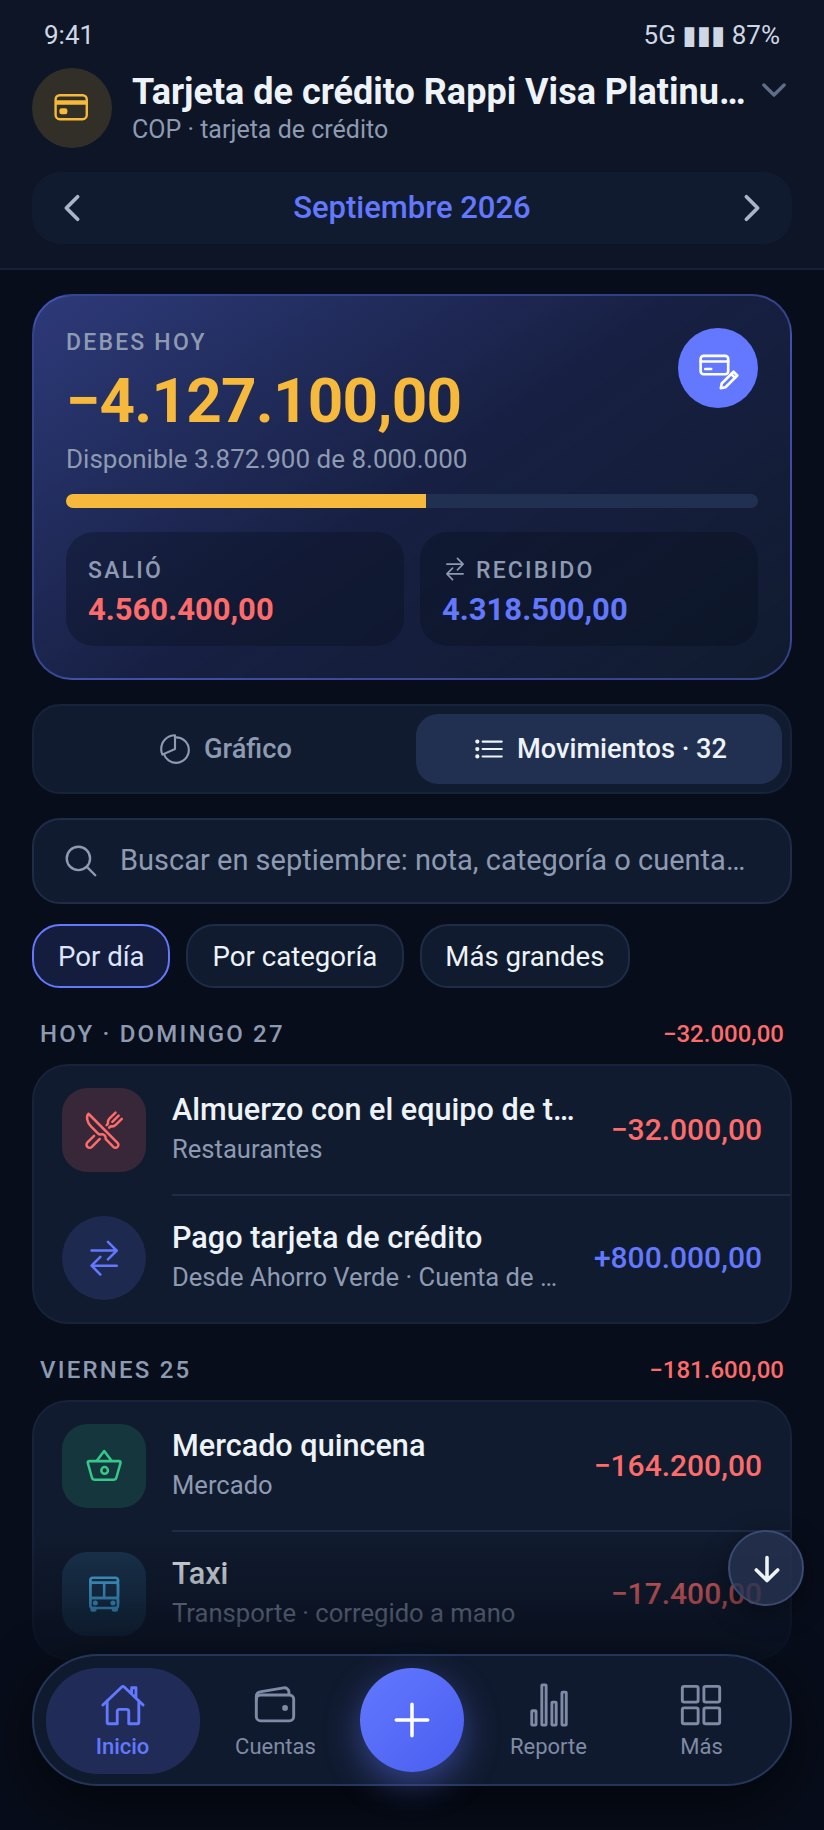
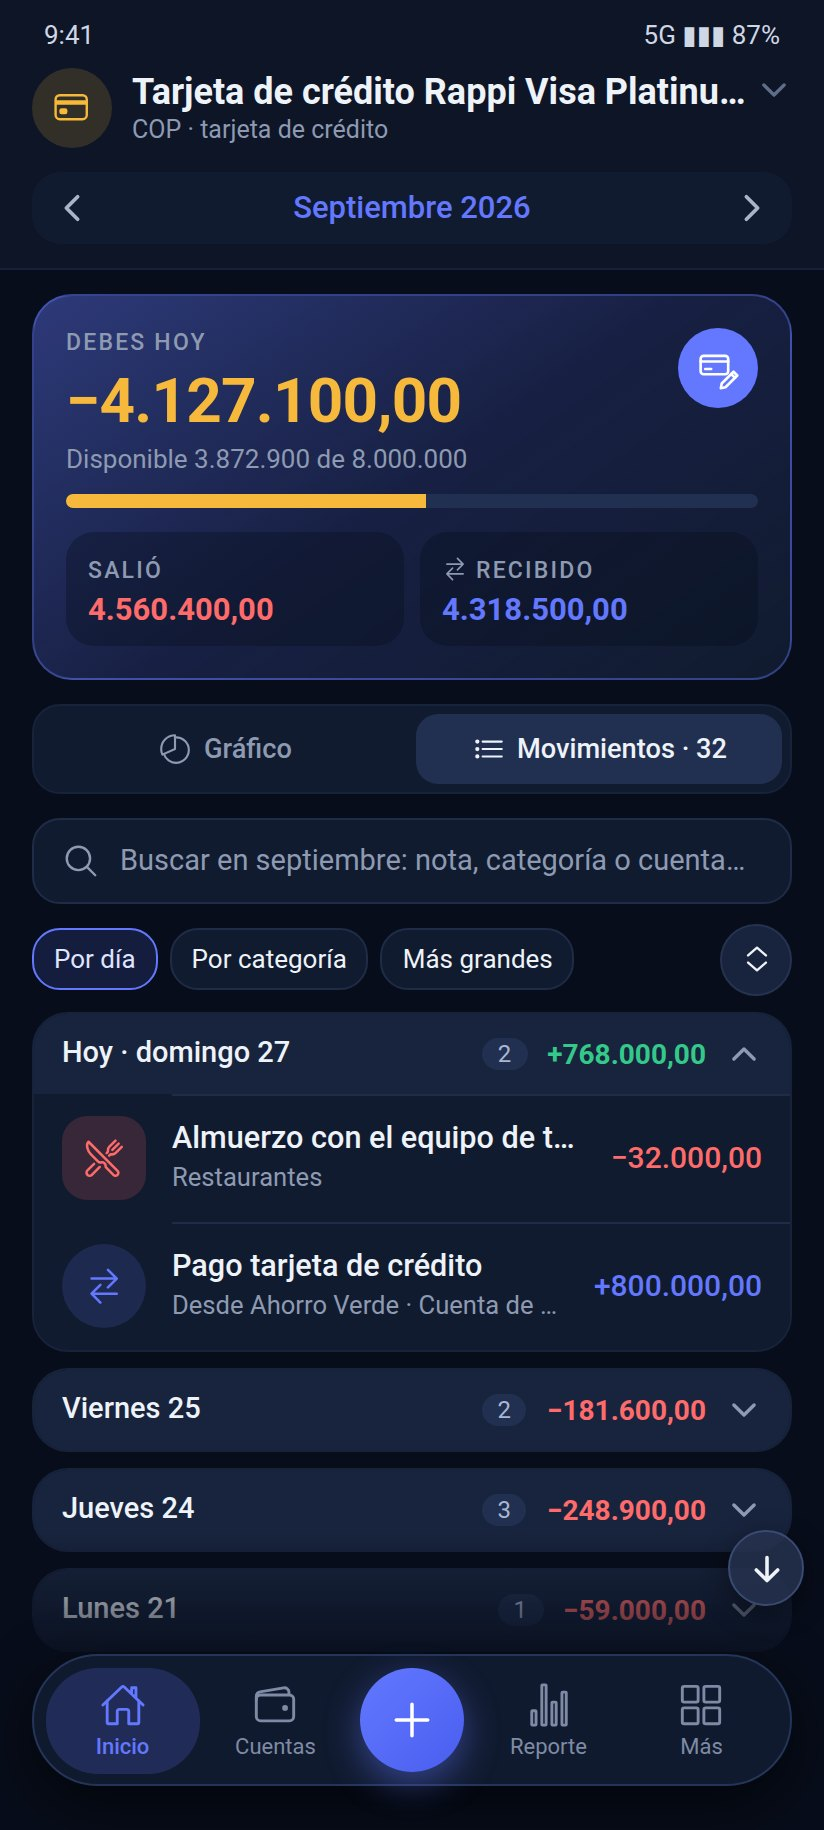
Fold every list of movements into sections, the first one open
By day or by category, each heading with its count and total, and one
round button to open or close them all, as the summary does today.
New frames: by category (1o), all open (1p), a later day open (4d2).

Claude-Session: https://claude.ai/code/session_01QyUqFix1SMdsKVBtd1Wz88

diff --git a/CLAUDE.md b/CLAUDE.md
@@ -2326,6 +2326,19 @@ changes of ACCESS for Jose to accept or refuse:
   sections can be open at once, with "Cerrar todas" beside "Van 27 de 30
   días"; the closed ones still show their key figure.
 
+**Every list of movements, on any screen, is in folding sections**
+(Jose, 2026-09-28). By day or by category (by month for payments and
+days), each heading with its icon when it is a category, the title, how
+many, the total and its chevron - what `movements.page.html` already
+draws (`toggleGroup`, `toggleAll`). "Más grandes" stays one flat list.
+**One change of behaviour, asked for by Jose: a list opens with only its
+first section open** - the most recent day, or the largest category -
+and the rest closed; today every section opens open. The one round
+button at the end of the grouping row (two chevrons apart: open all;
+together: close all, as today) does them all at once. Drawn in `1b`,
+`1c`, `1o` (by category), `1p` (all open), `4d` and `4d2` (a day further
+down opened); the same shape goes to Por revisar and every later group.
+
 ### The ideas, by what they would take
 
 | # | Idea | Size | Touches | Status |

diff --git a/docs/mockups/README.md b/docs/mockups/README.md
@@ -13,7 +13,7 @@ agreed"). Files starting with a digit are the current version of their
 group (v4 and later). The "+" sits in the middle of the floating bar from v5, in every file that draws the bar; `b*`, `c*`, `d*` are v3 drafts, kept until their group
 is redone, and superseded by Jose's review of 2026-09-28.
 
-Every screen with a long list carries the two arrows (up, down) on the right above the bar, as the app shows them today.
+Every list of movements is in folding sections (by day or category), only the first open, with the round open-all / close-all button (`1o`, `1p`, `4d2`). Every screen with a long list carries the two arrows (up, down) on the right above the bar, as the app shows them today.
 
 ## The files
 
